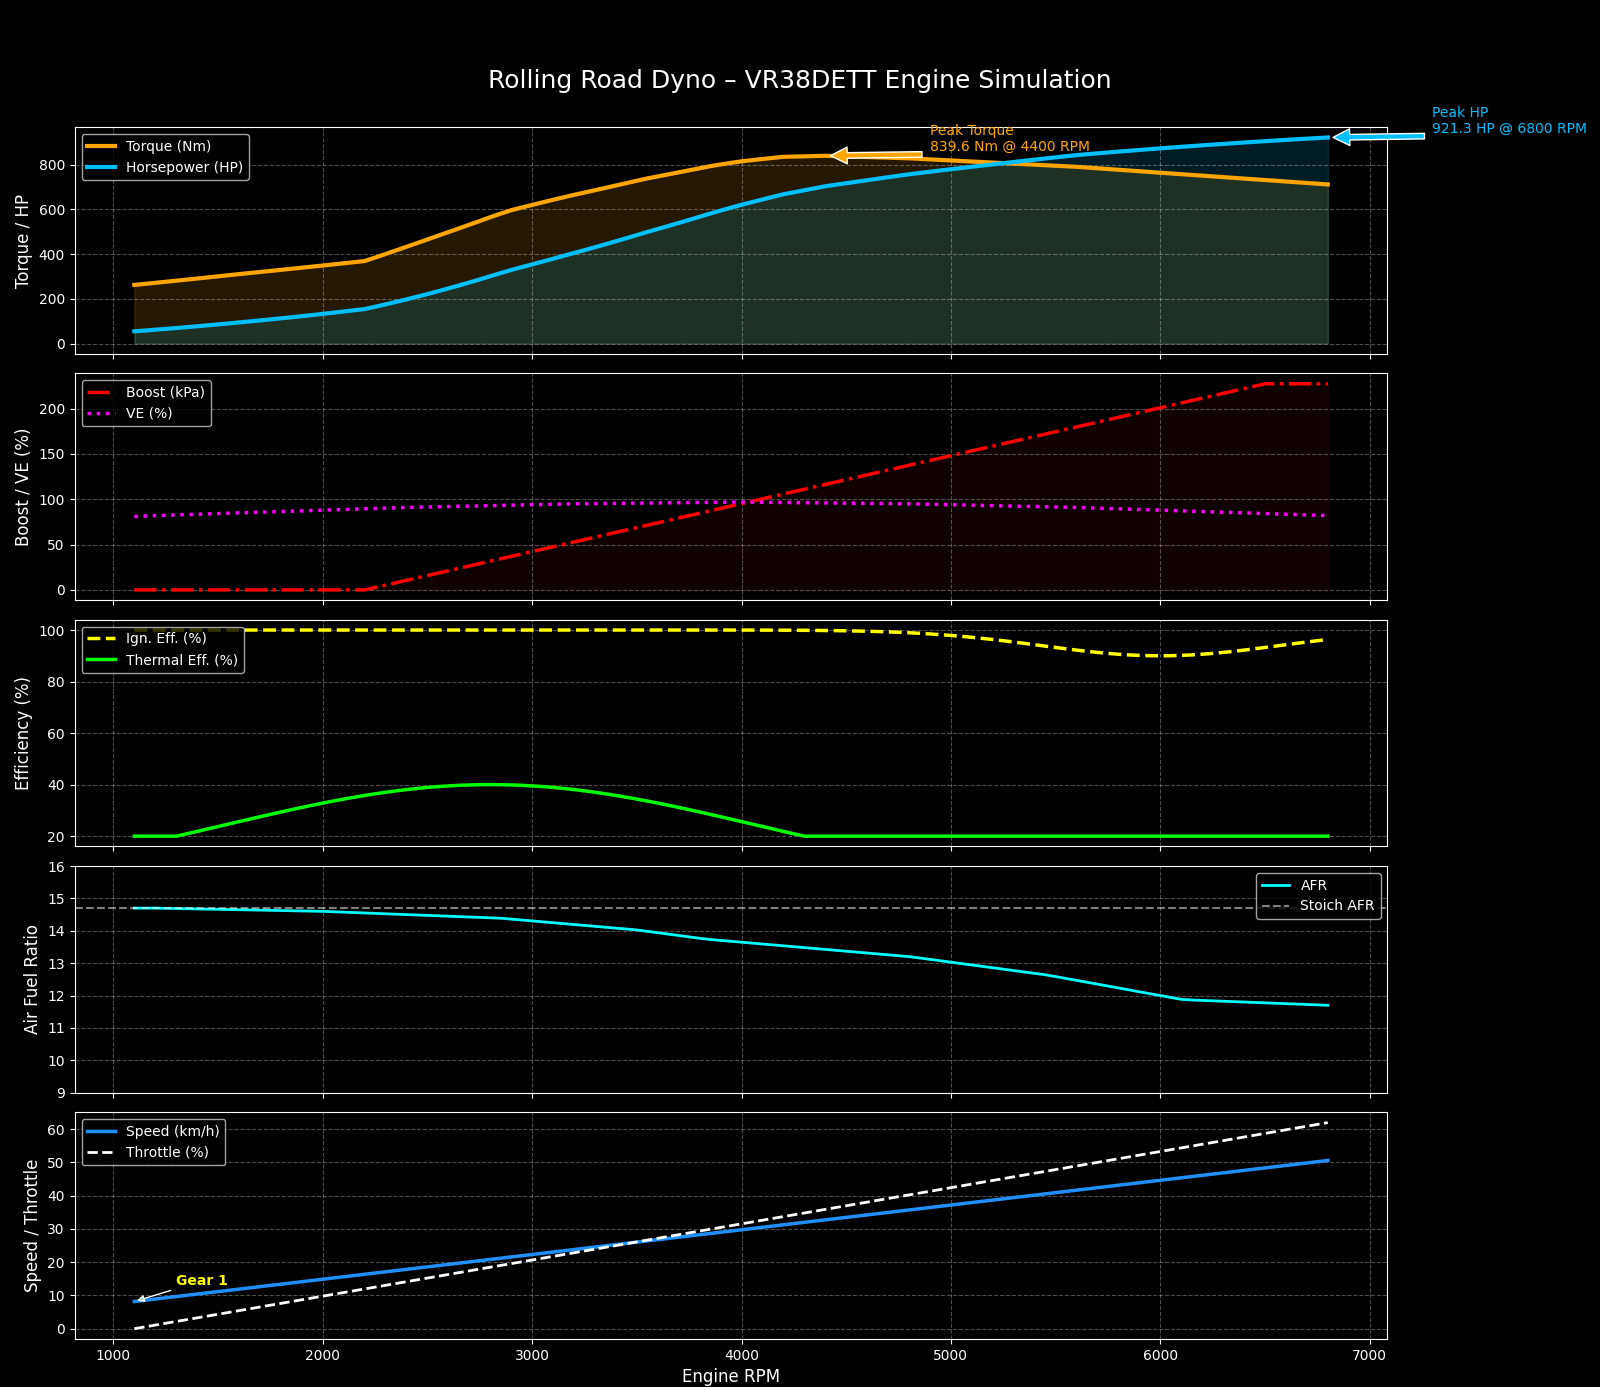
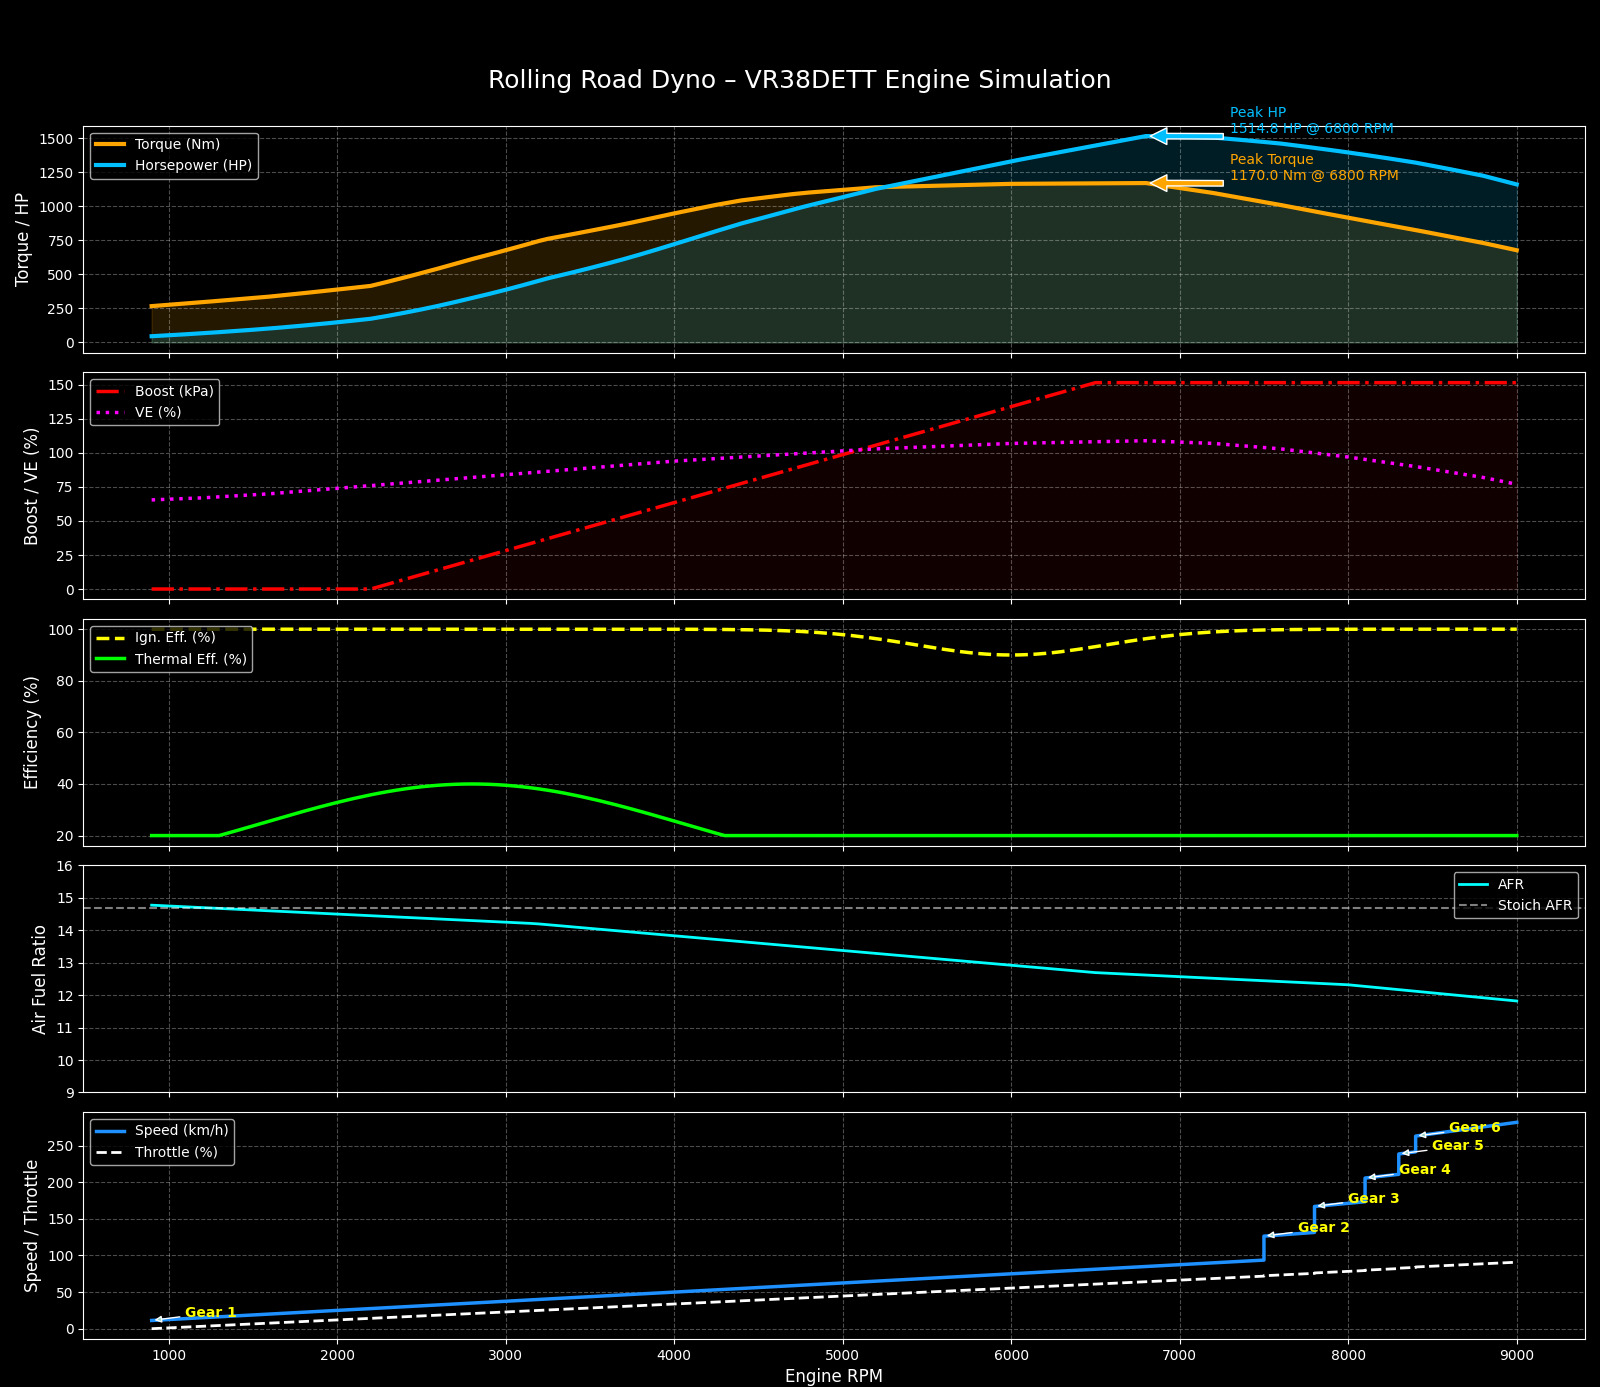
Add files via upload

diff --git a/dyno/dyno_graph.py b/dyno/dyno_graph.py
@@ -131,45 +131,82 @@ class EngineTuneMap2D:
 
 # === Engine config tuned style using the VEMap2D instance ===
 def create_engine_config_tuned(ve_map: EngineTuneMap2D):
-    return {
-        # Engine basics
-        'displacement_l': 3.8,
-        'cylinders': 6,
+    mode="hayabusa"  # or "lfa" for the other engine
+    engines={
+        "hayabusa":{
+            # Engine basics
+            'displacement_l': 1.3,
+            'cylinders': 4,
+            # Airflow
+            'volumetric_efficiency': lambda rpm, map_kpa: ve_map.get_ve(rpm, map_kpa),
+            'afr': lambda rpm, map_kpa: ve_map.get_afr(rpm, map_kpa),
+            # Boost target (optional, if used)
+            'boost_target_psi': lambda rpm: np.interp(
+                rpm, ve_map.rpm_points, [ve_map.map_psi_points[-1]] * len(ve_map.rpm_points)
+            ),  # Or define your own boost curve
+            # Other parameters
+            'boost_pressure_kpa': lambda rpm: (
+                101.3 + 100 * np.clip((rpm - 2500) / 4000, 0, 1)
+            ),
+            'air_density': 1.18,
+            # Combustion
+            'ignition_efficiency': lambda rpm: (
+                1.00 - 0.10 * np.exp(-((rpm - 6000)/800)**2)
+            ),
+            'thermal_efficiency':lambda rpm, map_kpa: ve_map.get_thermal_load(rpm,map_kpa),
+            'fuel_density': 0.760,  # kg/L
+            'fuel_energy_mj': 45,   # MJ/kg
+            # Turbo
+            'max_boost_psi': 33.0,
+            'spool_rpm': 2200,
+            'full_boost_rpm': 7000,
+            'turbo_efficiency': 0.93,
+            # Efficiency
+            'base_thermal_efficiency': 0.35,
+            'knock_ve_threshold': 0.95,
+            'knock_boost_threshold_kpa': 170.0,
+        },
+        "lfa":{
+            # Engine basics
+            'displacement_l': 4.8,
+            'cylinders': 10,
 
-        # Airflow
-        'volumetric_efficiency': lambda rpm, map_kpa: ve_map.get_ve(rpm, map_kpa),
-        'afr': lambda rpm, map_kpa: ve_map.get_afr(rpm, map_kpa),
+            # Airflow
+            'volumetric_efficiency': lambda rpm, map_kpa: ve_map.get_ve(rpm, map_kpa),
+            'afr': lambda rpm, map_kpa: ve_map.get_afr(rpm, map_kpa),
 
-        # Boost target (optional, if used)
-        'boost_target_psi': lambda rpm: np.interp(
-            rpm, ve_map.rpm_points, [ve_map.map_psi_points[-1]] * len(ve_map.rpm_points)
-        ),  # Or define your own boost curve
+            # Boost target (optional, if used)
+            'boost_target_psi': lambda rpm: np.interp(
+                rpm, ve_map.rpm_points, [ve_map.map_psi_points[-1]] * len(ve_map.rpm_points)
+            ),  # Or define your own boost curve
 
-        # Other parameters
-        'boost_pressure_kpa': lambda rpm: (
-            101.3 + 100 * np.clip((rpm - 2500) / 4000, 0, 1)
-        ),
-        'air_density': 1.18,
+            # Other parameters
+            'boost_pressure_kpa': lambda rpm: (
+                101.3 + 100 * np.clip((rpm - 2500) / 4000, 0, 1)
+            ),
+            'air_density': 1.18,
 
-        # Combustion
-        'ignition_efficiency': lambda rpm: (
-            1.00 - 0.10 * np.exp(-((rpm - 6000)/800)**2)
-        ),
-        'thermal_efficiency':lambda rpm, map_kpa: ve_map.get_thermal_load(rpm,map_kpa),
-        'fuel_density': 0.760,  # kg/L
-        'fuel_energy_mj': 45,   # MJ/kg
+            # Combustion
+            'ignition_efficiency': lambda rpm: (
+                1.00 - 0.10 * np.exp(-((rpm - 6000)/800)**2)
+            ),
+            'thermal_efficiency':lambda rpm, map_kpa: ve_map.get_thermal_load(rpm,map_kpa),
+            'fuel_density': 0.760,  # kg/L
+            'fuel_energy_mj': 45,   # MJ/kg
 
-        # Turbo
-        'max_boost_psi': 33.0,
-        'spool_rpm': 2200,
-        'full_boost_rpm': 6500,
-        'turbo_efficiency': 0.93,
+            # Turbo
+            'max_boost_psi': 22.0,
+            'spool_rpm': 2200,
+            'full_boost_rpm': 6500,
+            'turbo_efficiency': 0.93,
 
-        # Efficiency
-        'base_thermal_efficiency': 0.35,
-        'knock_ve_threshold': 0.95,
-        'knock_boost_threshold_kpa': 170.0,
+            # Efficiency
+            'base_thermal_efficiency': 0.35,
+            'knock_ve_threshold': 0.95,
+            'knock_boost_threshold_kpa': 170.0,
+        }
     }
+    return engines[mode]
 
 ve_map = EngineTuneMap2D(RPM_POINTS, MAP_PSI_POINTS)
 # === Dyno simulation function uses engine_config_tuned ===
@@ -249,7 +286,7 @@ def calculate_engine_torque_hp(rpm, throttle, boost_psi=None, ve_map=ve_map):
 
     # Estimate torque (Nm): Torque = (HP * 5252) / RPM
     if rpm > 0:
-        torque = (horsepower * 9549) / rpm
+        torque = (horsepower * 5252) / rpm
     else:
         torque = 0
 

diff --git a/dyno/dyno.py b/dyno/dyno.py
@@ -303,6 +303,7 @@ def simulate_dyno(car, engine, shift_rpms, ve_map):
         gear = gear_idx + 1
         gear_ratio = car['GEARS'][str(gear)]
         final_drive = car['final_drive']
+        car['red_line']=car['MAX_RPM']
 
         # RPM Range
         rpm_start = car['IDLE_RPM'] if gear_idx == 0 else shift_rpms[gear_idx - 1]

diff --git a/dyno/tuner.py b/dyno/tuner.py
@@ -367,7 +367,7 @@ def get_car_profile():
 
 
 def start():
-    filename=r"C:\Users\Owner\Desktop\ctf\car_ecu\dyno\race_tune.json"
+    filename=r"C:\Users\Owner\Desktop\ctf\car_ecu\dyno\drag_tune.json"
 
 
     try:
